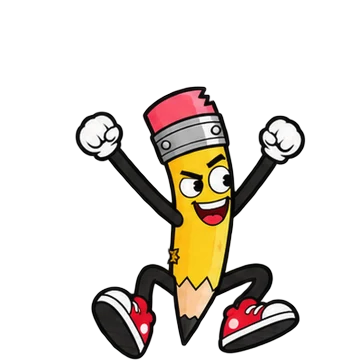
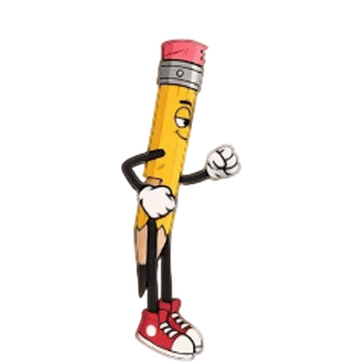
Pencil test: 8-frame run cycle and jump poses from the autosprite sheets

Changed region(s): [[0.1823, 0.0912, 0.8508, 1.0]]

diff --git a/src/client/game/entities/Player.ts b/src/client/game/entities/Player.ts
@@ -33,10 +33,9 @@ import {
 // — easier to tell which pose is which at a glance, and to swap one out
 // without recomputing a grid offset. See player/*.webp in public/assets.
 //
-// player-run-1..6 is a genuine six-pose run cycle (drawn with alternating
-// leg/arm contact poses, not near-duplicates — unlike the original 4x2
-// sheet, which only had one distinct leg pose and no way to fake a second
-// one that didn't look like the character spinning to face backwards).
+// player-run-1..8 is one pencil stride (contact → passing → contact),
+// picked evenly from the 25-frame autosprite run sheet after sorting its
+// cells by pose — the sheet's grid order isn't playback order.
 export const PLAYER_TEXTURE_KEYS = [
   'player-idle',
   'player-run-1',
@@ -45,6 +44,8 @@ export const PLAYER_TEXTURE_KEYS = [
   'player-run-4',
   'player-run-5',
   'player-run-6',
+  'player-run-7',
+  'player-run-8',
   'player-jump-rise',
   'player-jump-tuck',
   'player-jump-fall',
@@ -71,6 +72,8 @@ const RUN_KEYS = [
   'player-run-4',
   'player-run-5',
   'player-run-6',
+  'player-run-7',
+  'player-run-8',
 ];
 const RISE_KEY = 'player-jump-rise';
 const TUCK_KEY = 'player-jump-tuck';
@@ -181,21 +184,19 @@ function opaqueFrameBounds(frame: Phaser.Textures.Frame): OpaqueBounds {
   opaqueBoundsCache.set(cacheKey, bounds);
   return bounds;
 }
-// Per-frame hold times (ms) for the run cycle, in place of a flat frameRate.
-// run-1/4 are the contact poses (foot planted) and read best with a beat of
-// hang time; run-2/5 are the fast mid-stride recoil; run-3/6 are the
-// high-point passing poses. Holding contact longer than passing is the same
-// asymmetric timing classic hand-drawn walk/run cycles use to sell weight
-// and stride rather than a mechanical, evenly-spaced frame flip.
-const RUN_FRAME_DURATIONS_MS: readonly number[] = [70, 38, 52, 70, 38, 52];
-// Squash on contact, stretch through the passing/high point — synced to the
-// same six frames via ANIMATION_UPDATE (see onAnimFrameUpdate). Multiplied
-// against the base PLAYER_SIZE scale, not set absolutely.
+// Per-frame hold times (ms) for the run cycle. The eight poses are one step,
+// so the loop is ~160ms — about how long a step of this leg span takes at
+// RUN_SPEED, keeping the feet from skating.
+const RUN_FRAME_DURATIONS_MS: readonly number[] = [20, 20, 20, 20, 20, 20, 20, 20];
+// Squash on contact (run-1, legs fully extended), stretch through the
+// passing pose (run-5) — synced to the same eight frames via
+// ANIMATION_UPDATE (see onAnimFrameUpdate). Multiplied against the base
+// PLAYER_SIZE scale, not set absolutely.
 const RUN_SCALE_X_FACTORS: readonly number[] = [
-  1.05, 0.99, 0.96, 1.05, 0.99, 0.96,
+  1.05, 1.03, 0.99, 0.97, 0.96, 0.97, 0.99, 1.03,
 ];
 const RUN_SCALE_Y_FACTORS: readonly number[] = [
-  0.94, 1.02, 1.06, 0.94, 1.02, 1.06,
+  0.94, 0.97, 1.02, 1.05, 1.06, 1.05, 1.02, 0.97,
 ];
 // Same trick as the run cycle's squash/stretch above, applied to the dance
 // loop — without it the dance is just a slideshow of static poses cut on
